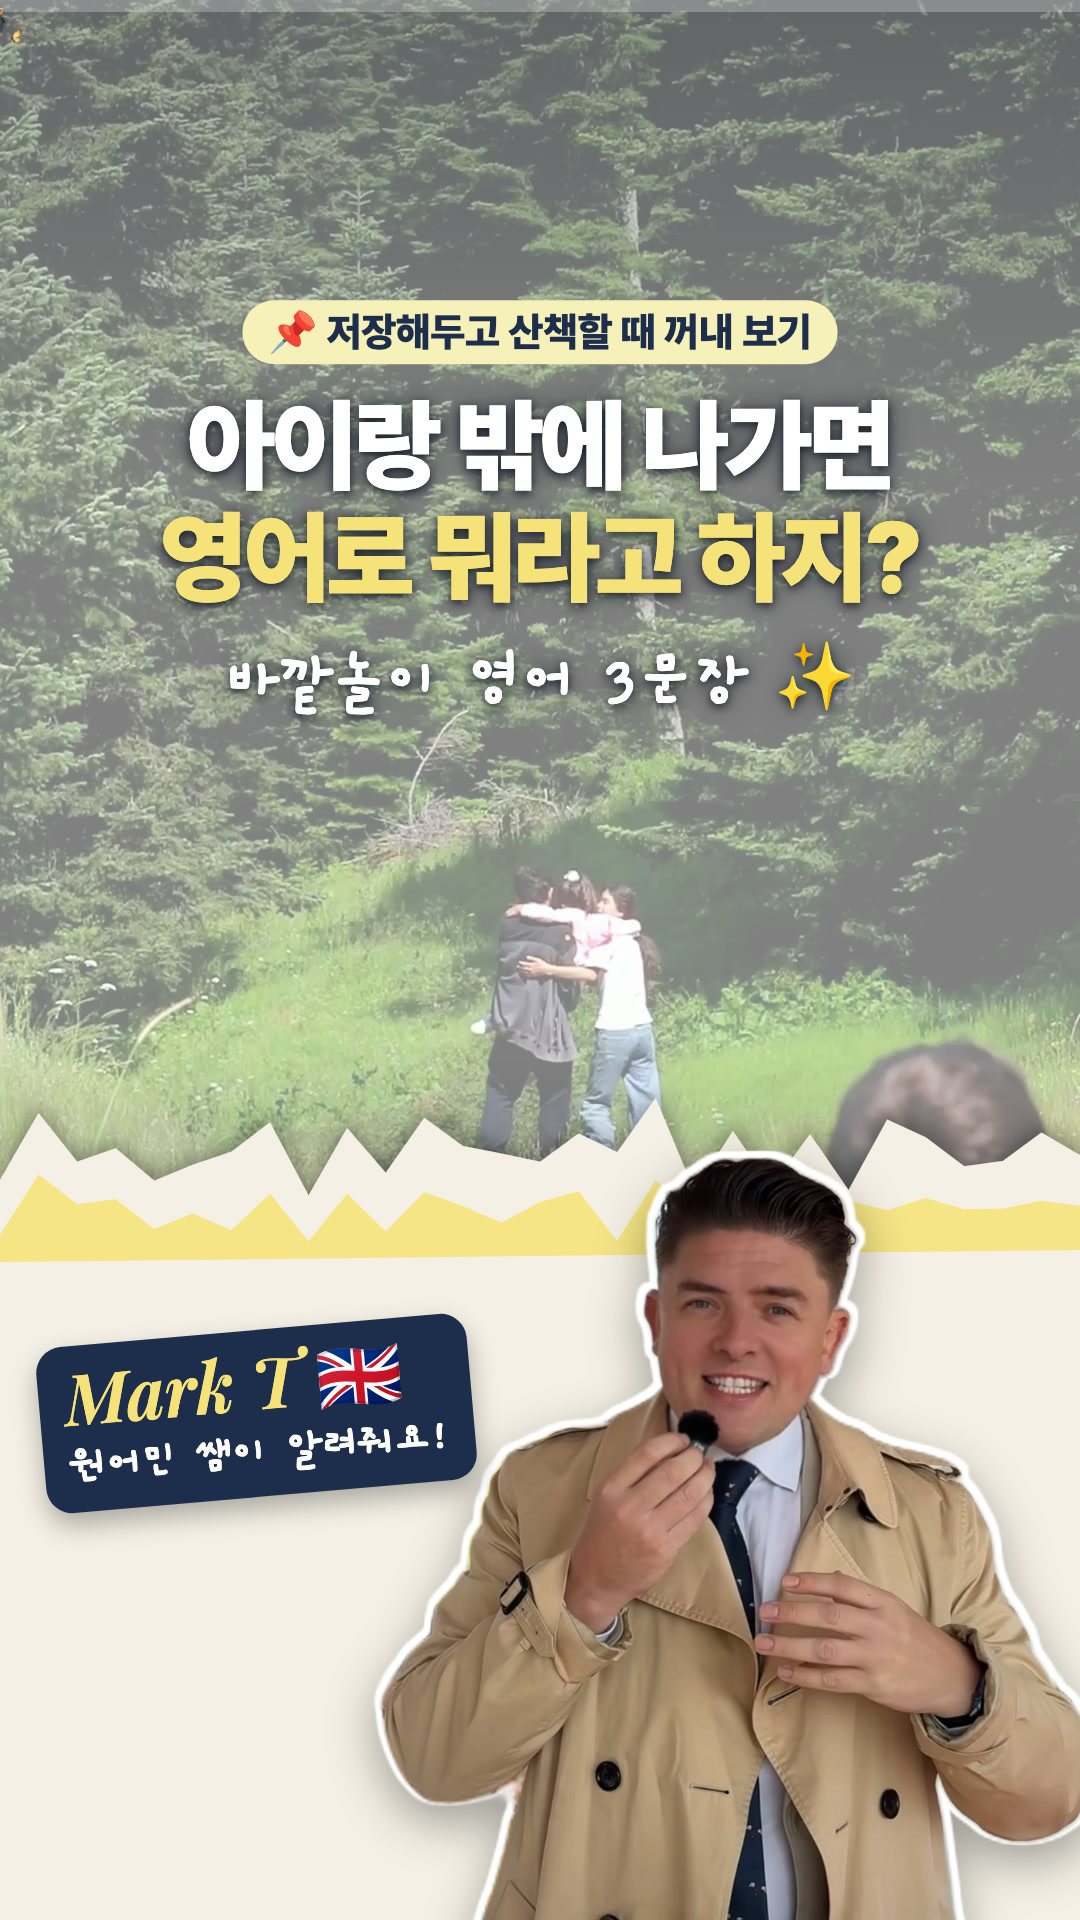
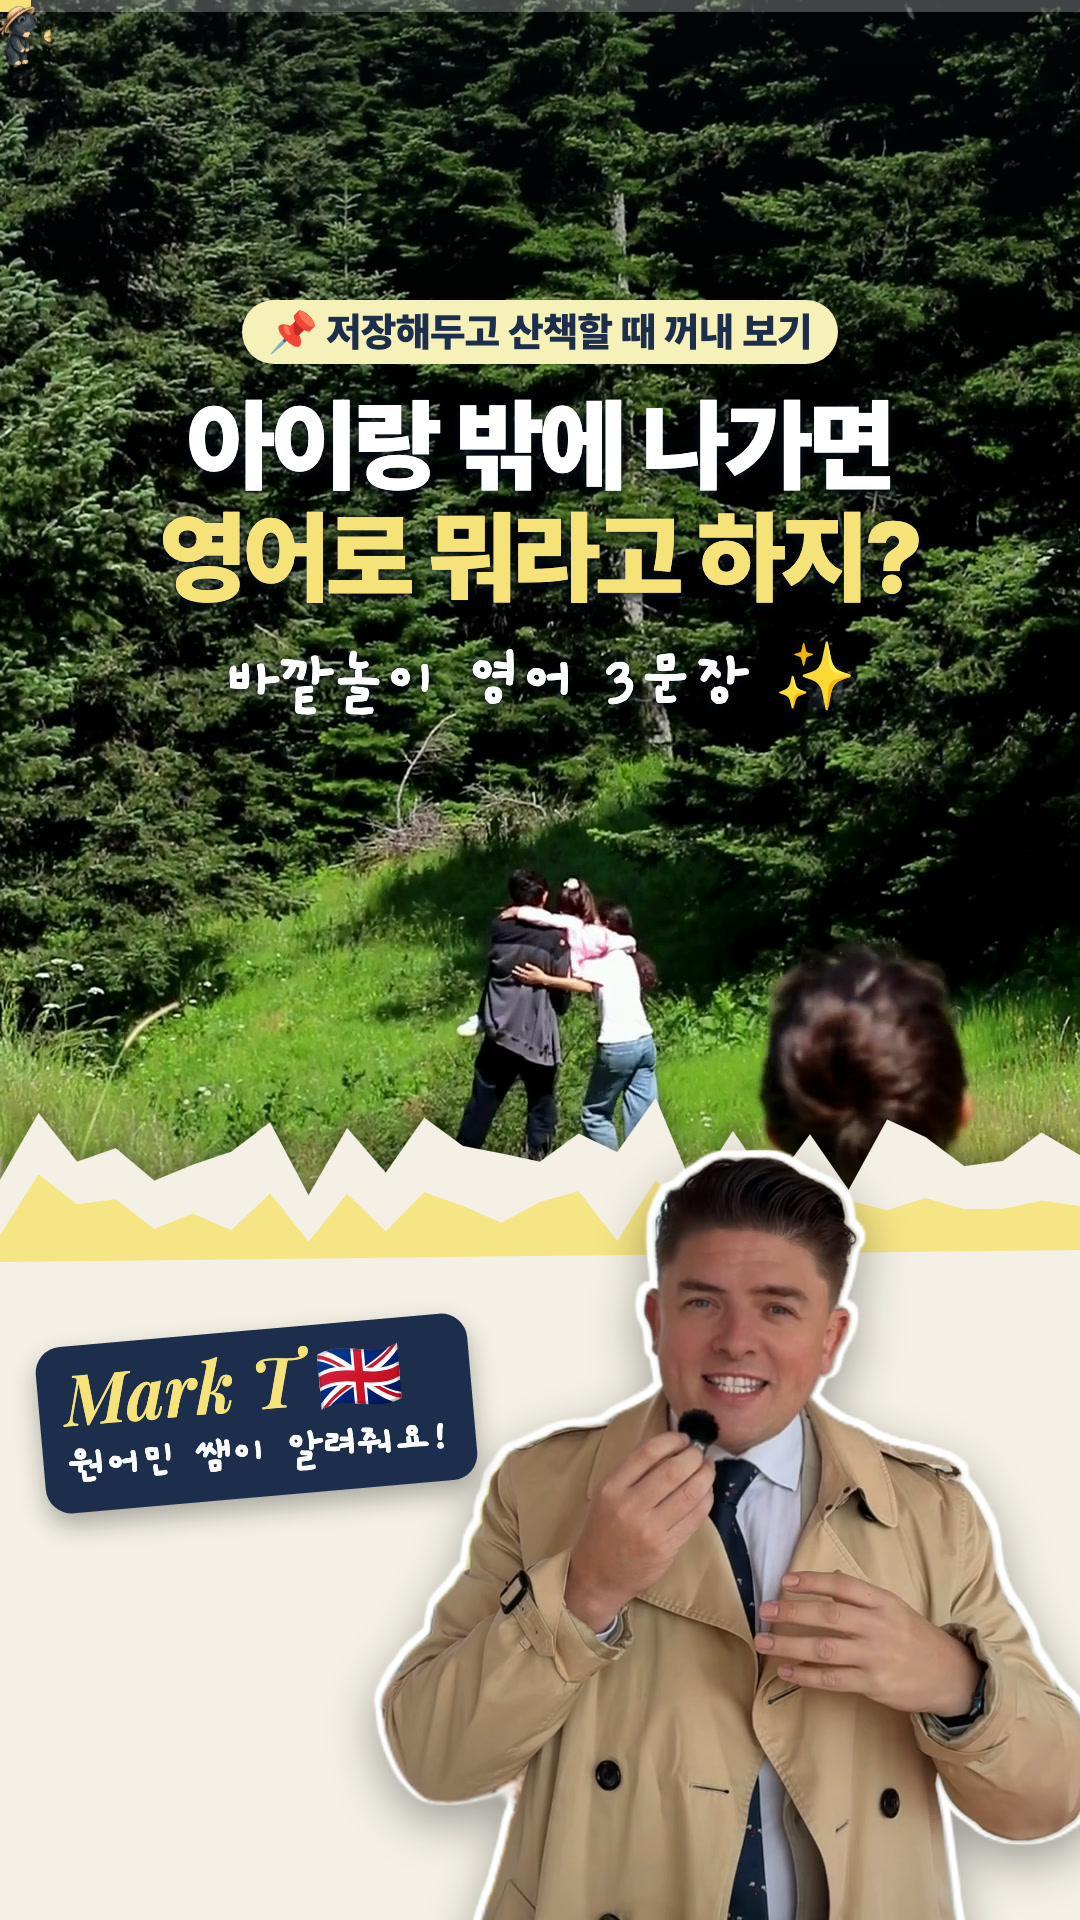
DAY 33 hook A: result first (board writes 'Look, it's a car!' as Mark says it, real car, '밖에서는 이 한 문장이면 끝!'), then the montage; cover stays the Mark cut-out frame

diff --git a/remotion/src/OutdoorEnglish.tsx b/remotion/src/OutdoorEnglish.tsx
@@ -123,7 +123,8 @@ export const OutdoorEnglish: React.FC<{plan: OutdoorPlan}> = ({plan}) => {
   const phrase = seg && seg.phrase ? plan.phrases.find((p) => p.k === seg.phrase) : undefined;
   const cap = plan.captions.find((c) => t >= c.s && t < c.e);
   const boardOn = ['board', 'boardb', 'replay'].includes(lay);
-  const hookEnd = plan.segments[4].out_s;
+  const hookEnd = plan.segments.find((g) => g.layout === 'full')!.out_s;
+  const hookA = seg?.note === 'hookA' ? seg : undefined;
   const segStart = seg ? seg.out_s : 0;
   const flash = interpolate(t - segStart, [0, .12], [.5, 0], clamp);
   return (
@@ -132,9 +133,24 @@ export const OutdoorEnglish: React.FC<{plan: OutdoorPlan}> = ({plan}) => {
       {lay === 'montage' ? <AbsoluteFill style={{background: '#fff', opacity: flash}} /> : null}
       {lay === 'full' || lay === 'montage' ? <AbsoluteFill style={{background: 'linear-gradient(180deg, rgba(10,16,30,.25) 0%, rgba(10,16,30,0) 25%, rgba(10,16,30,0) 55%, rgba(10,16,30,.55) 85%)'}} /> : null}
       {boardOn && phrase ? <Board p={phrase} t={t} fps={fps} /> : null}
+      {/* Hook A: the result first. The board writes "Look, it's a car!" while Mark says it and a real car drives by */}
+      {hookA ? (() => {
+        const p0 = plan.phrases[0];
+        const hp = {...p0, s: hookA.out_s - .9, chips: [{...p0.chips[0], t: hookA.out_s + .85}, {...p0.chips[1], t: 1e9}, {...p0.chips[2], t: 1e9}]};
+        const k = sp(t, -.4, fps, 9);
+        return (
+          <>
+            <Board p={hp} t={t} fps={fps} />
+            <div style={{position: 'absolute', left: 30, right: 30, top: 1250, textAlign: 'center', transform: `scale(${.85 + .15 * k}) rotate(-2deg)`}}>
+              <div style={{display: 'inline-block', fontWeight: 900, fontSize: 92, lineHeight: 1.1, color: '#fff', textShadow: SHADOW, letterSpacing: '-.03em'}}>
+                밖에서는 <span style={{color: C.yellow}}>이 한 문장</span>이면<br />끝! 👆</div>
+            </div>
+          </>
+        );
+      })() : null}
 
       {/* HOOK: the first frame is the thumbnail */}
-      {t < hookEnd ? (() => {
+      {t < hookEnd && !hookA ? (() => {
         const k = sp(t, -.4, fps, 12);
         return (
           <>

diff --git a/projects/2026-11-day33-outdoor/build.py b/projects/2026-11-day33-outdoor/build.py
@@ -12,6 +12,8 @@ SUMMARY, END = 5.5, 4.0
 # layouts: montage (full B-roll, cut fast), full (Mark full frame), board (board top + Mark bottom), boardb (board top + B-roll bottom),
 #          replay (board top + Mark bottom, slowed)
 S = [
+    # Hook A (17 Nov, Claude's call with Joy's go-ahead): show the result first. Mark says "Look, it's a car!" over the board and a car.
+    (19.75, 21.22, "boardb", "b2", 4.0, 1, 0, "hookA"),
     (0.15, 1.00, "montage", "kidrun", 1.0, 1, 0, "hook"),
     (1.00, 1.85, "montage", "b1_sdr", 6.0, 1, 0, "hook"),
     (1.85, 2.75, "montage", "koi", 2.0, 1, 0, "hook"),
@@ -68,7 +70,7 @@ def main():
 
     def first_out(x):
         for g in segs:
-            if g["note"] not in ("slow", "again") and g["src_s"] - 1e-6 <= x <= g["src_e"] + 1e-6:
+            if g["note"] not in ("slow", "again", "hookA") and g["src_s"] - 1e-6 <= x <= g["src_e"] + 1e-6:
                 return round(g["out_s"] + (x - g["src_s"]) / g["speed"], 3)
         raise ValueError(x)
 
@@ -81,10 +83,11 @@ def main():
                         "slow": None, "again": None})
     sfx = []
     add = lambda tt, s_, gn: sfx.append({"t": round(max(0, tt), 3), "sound": s_, "gain": gn})
-    for g in segs[:4]:
+    add(0.0, "chime", -8); add(segs[0]["out_s"] + 0.95, "pop", -8)   # the car word lands
+    for g in segs[1:5]:
         add(g["out_s"], "whoosh", -10)
-    add(0.0, "impact", -6)
-    add(segs[4]["out_s"], "impact", -8)
+    add(segs[1]["out_s"], "impact", -6)
+    add(segs[5]["out_s"], "impact", -8)
     for p in phrases:
         add(p["s"], "chime", -8)
         for c in p["chips"]:
